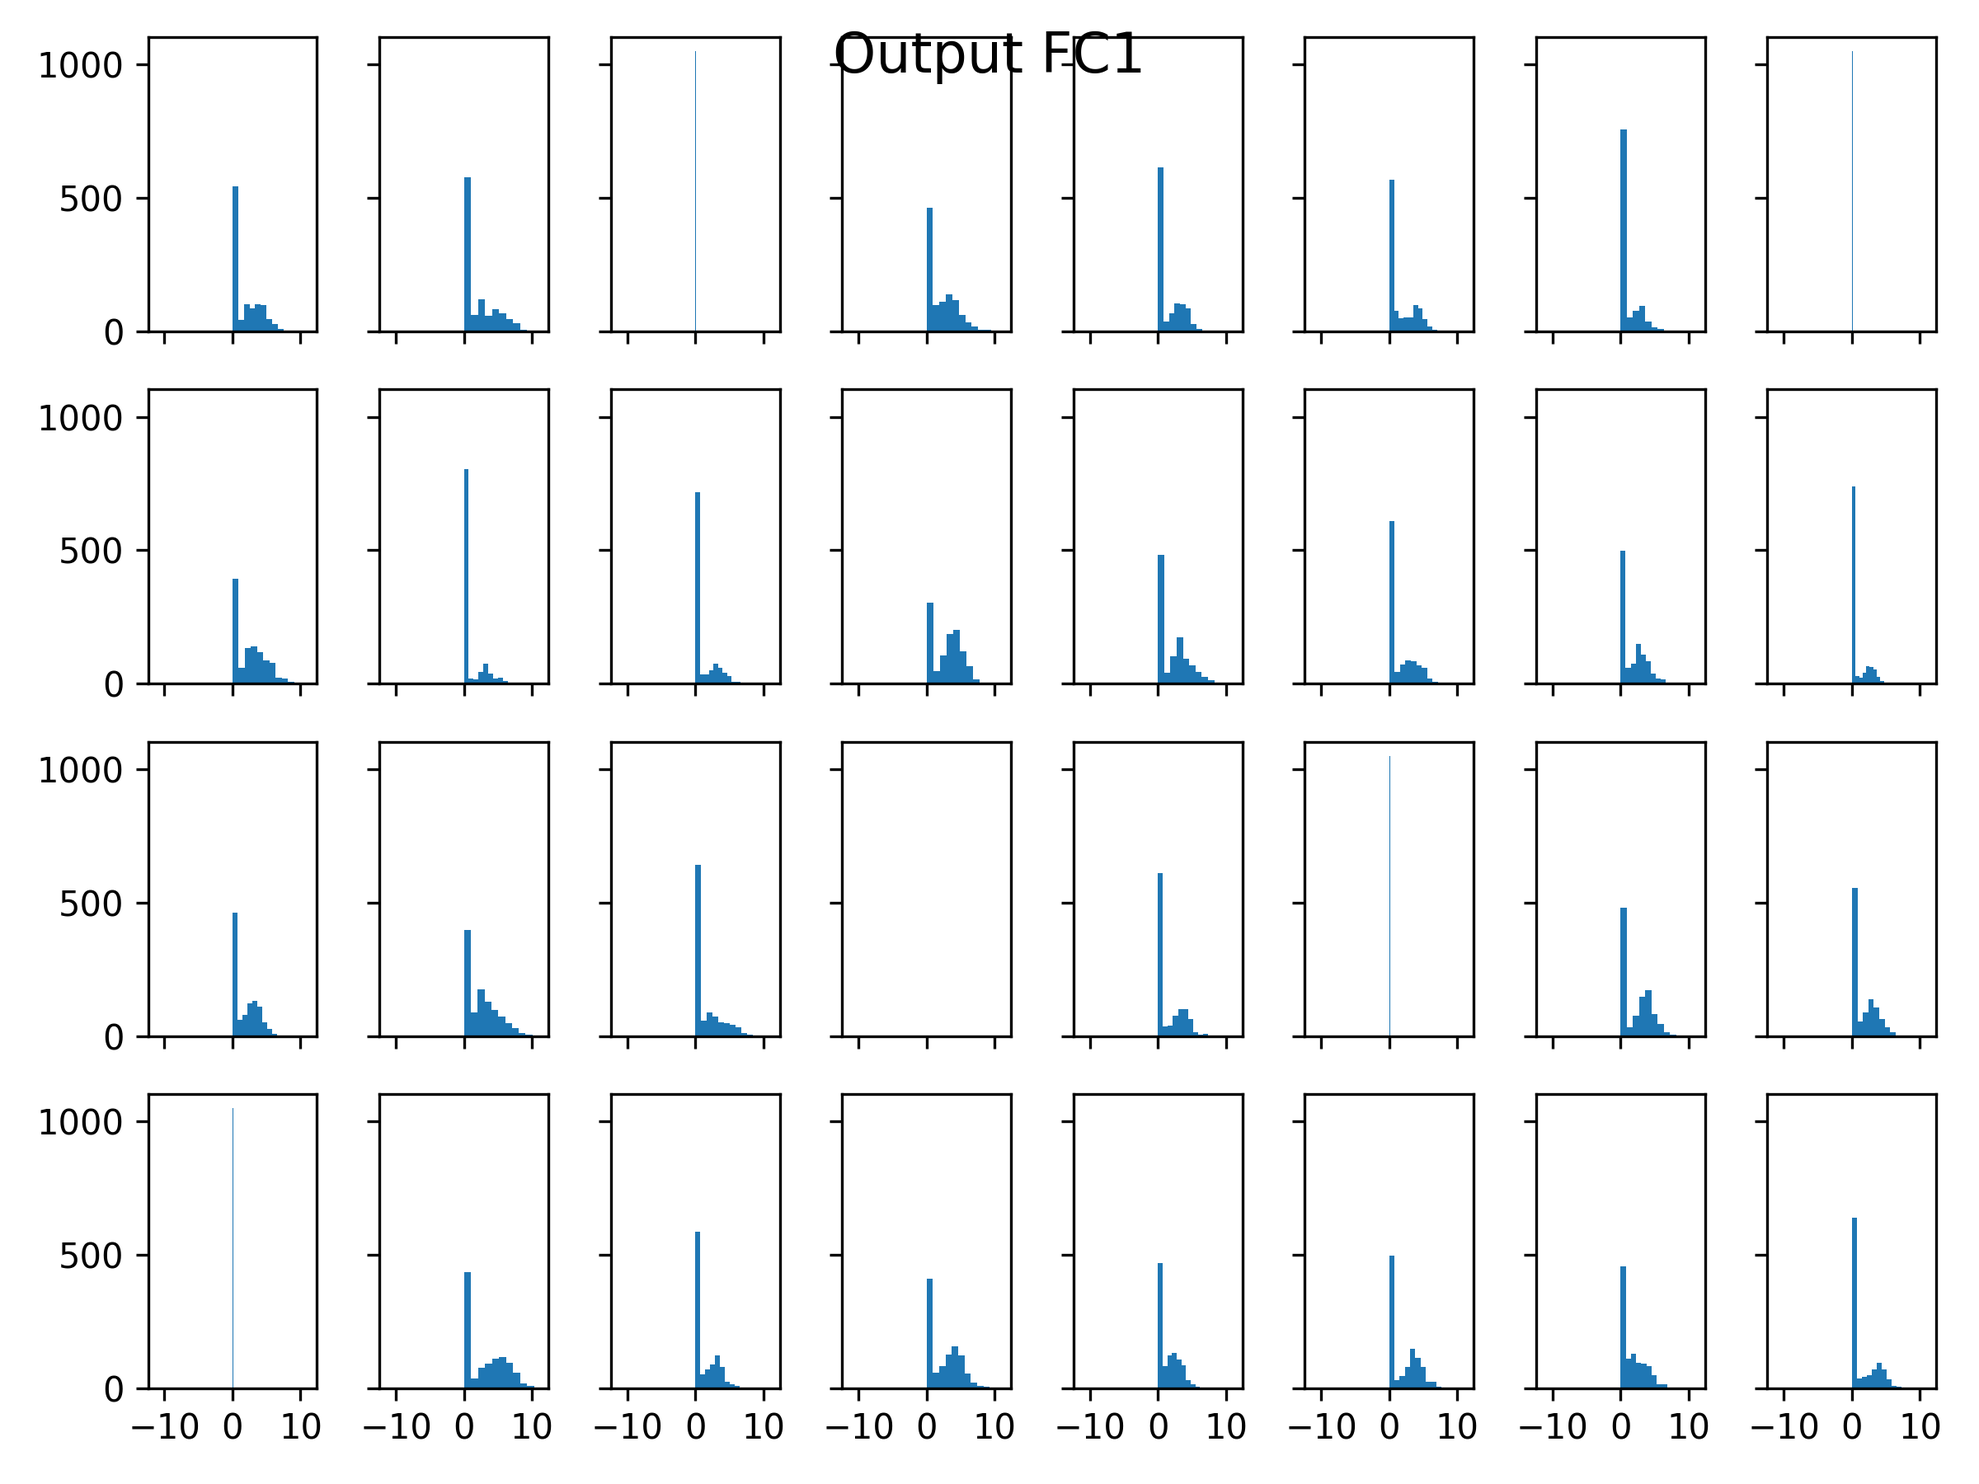
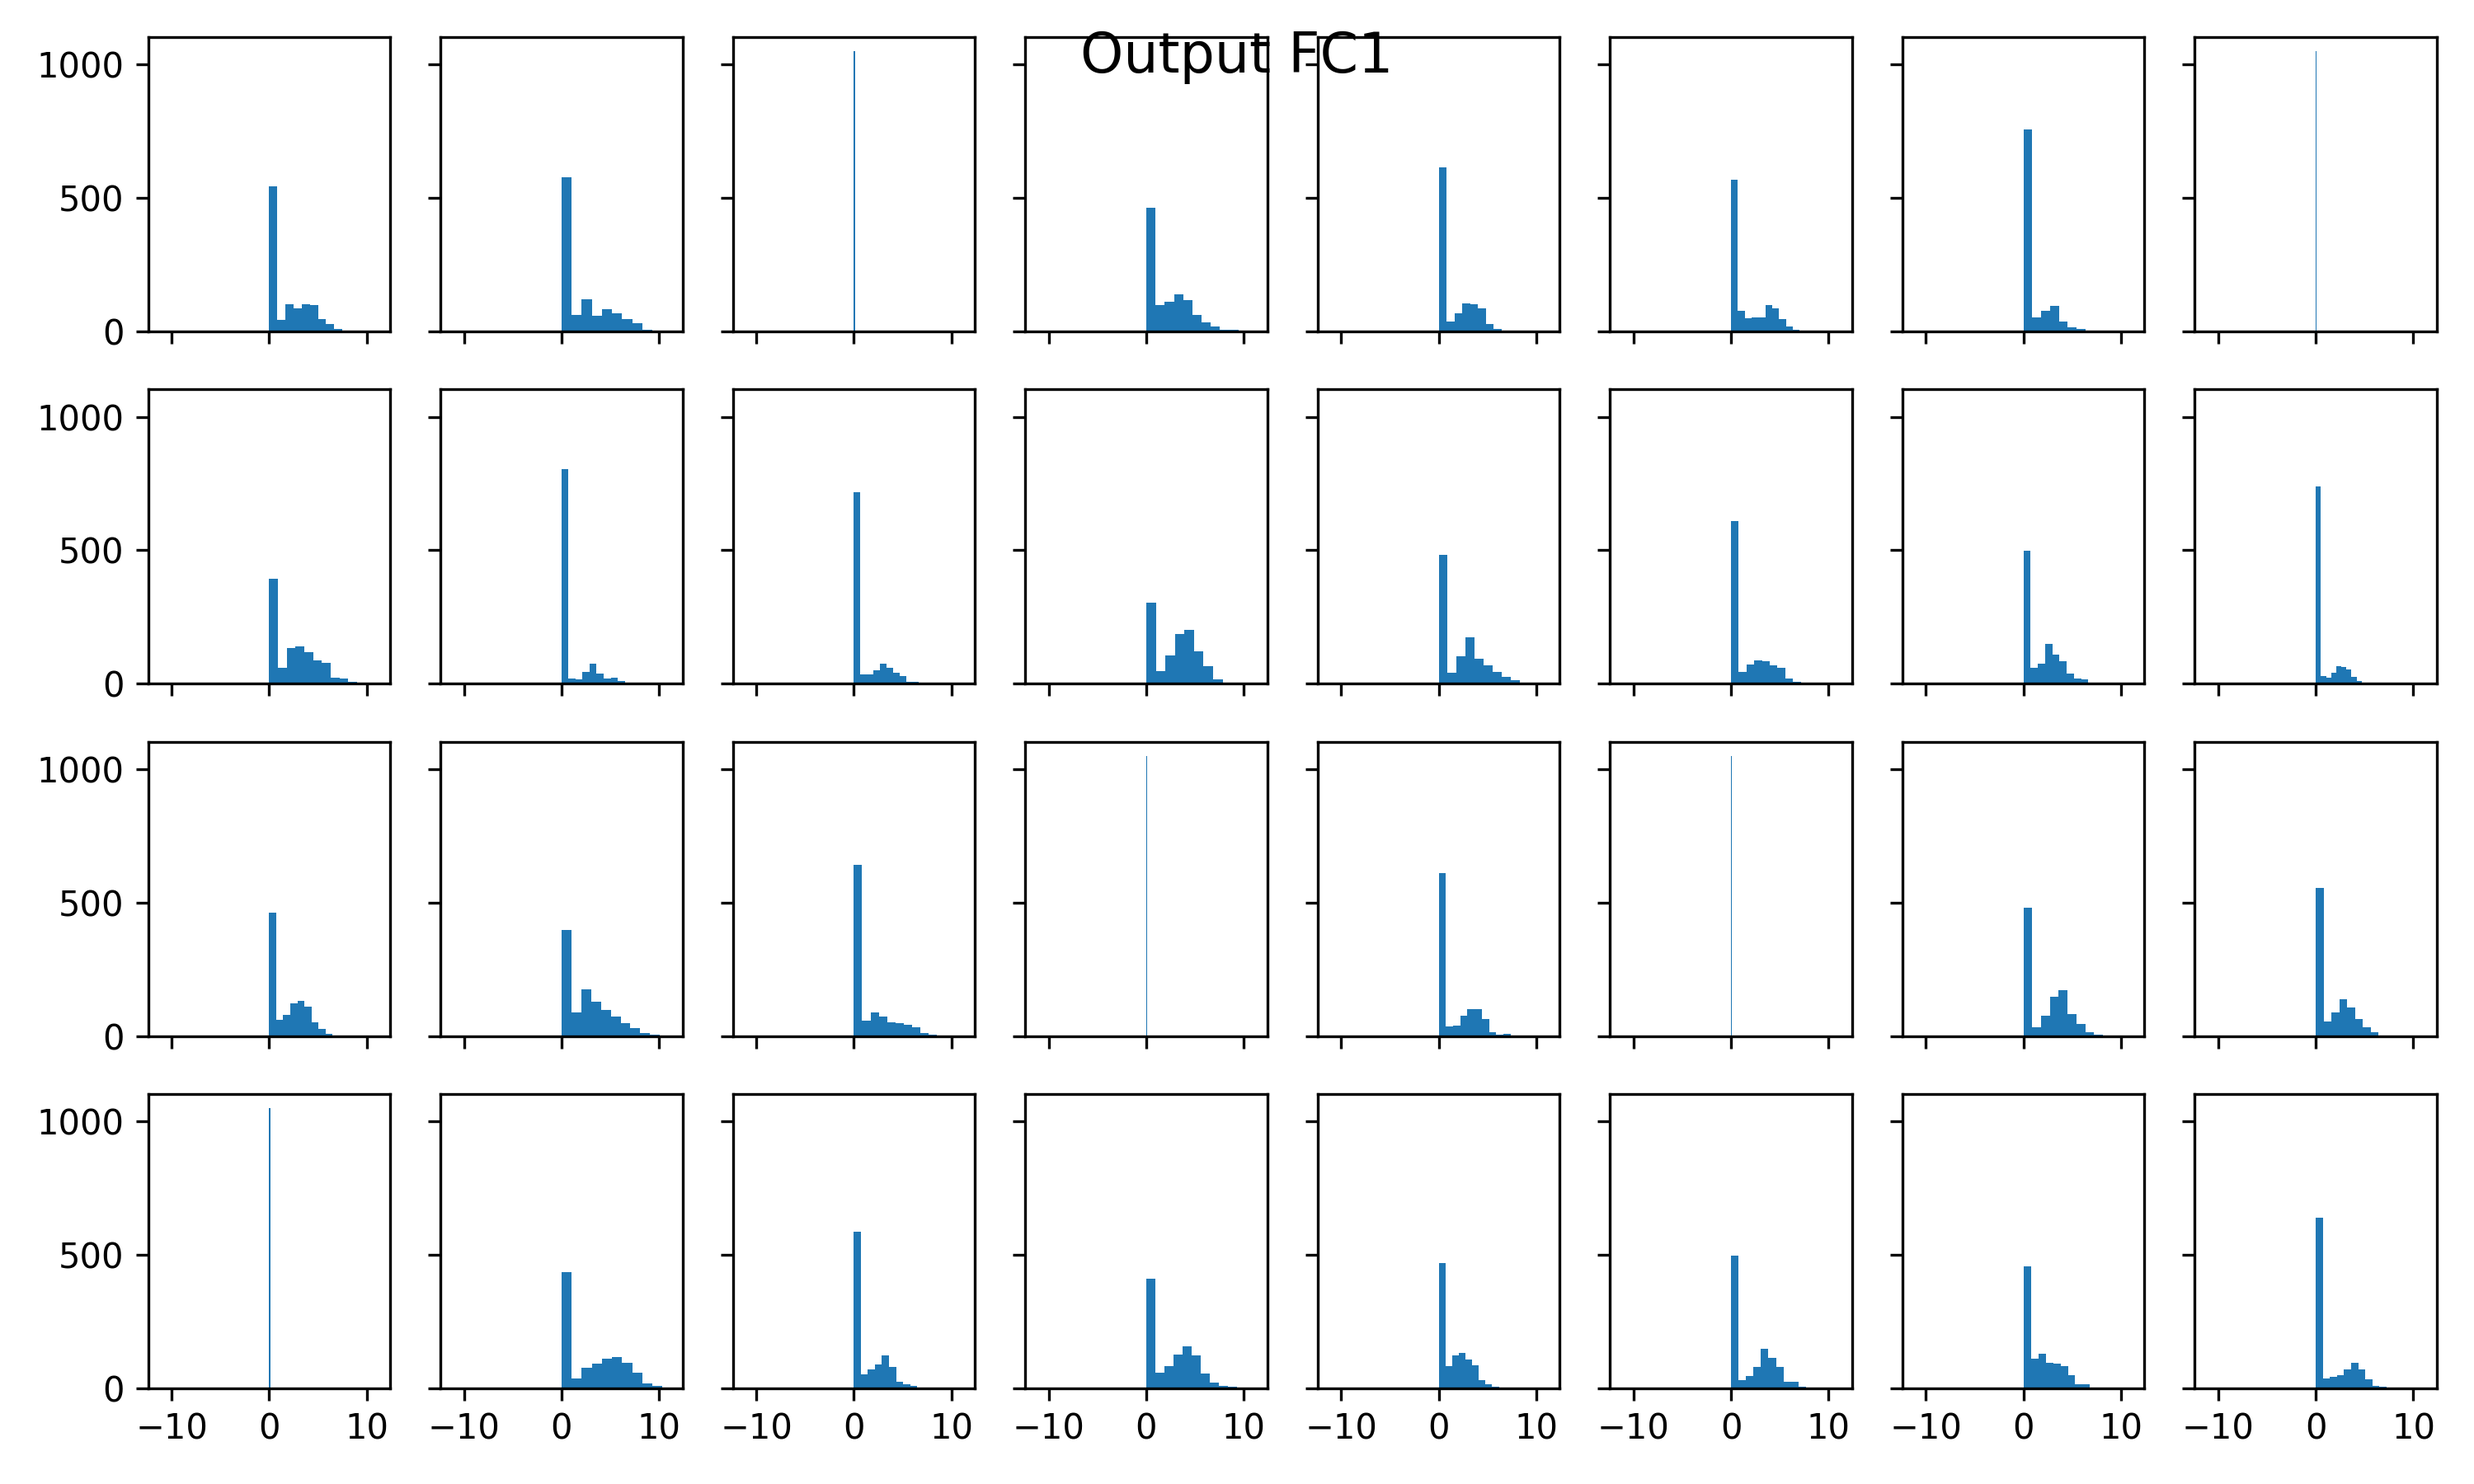
Updated Plots

diff --git a/net/quantize.py b/net/quantize.py
@@ -33,7 +33,7 @@ def _plot_histogram_fc(x, layout=None, title='FC Weight Distributions', filename
         nc = int(np.ceil(n / nr))
     assert nr * nc >= n
 
-    fig, axes = plt.subplots(nrows=nr, ncols=nc, sharex='all', sharey='all', figsize=(8, 6))
+    fig, axes = plt.subplots(nrows=nr, ncols=nc, sharex='all', sharey='all', figsize=(10, 6), constrained_layout=True)
 
     for ix in range(n):
         i = ix // nc
